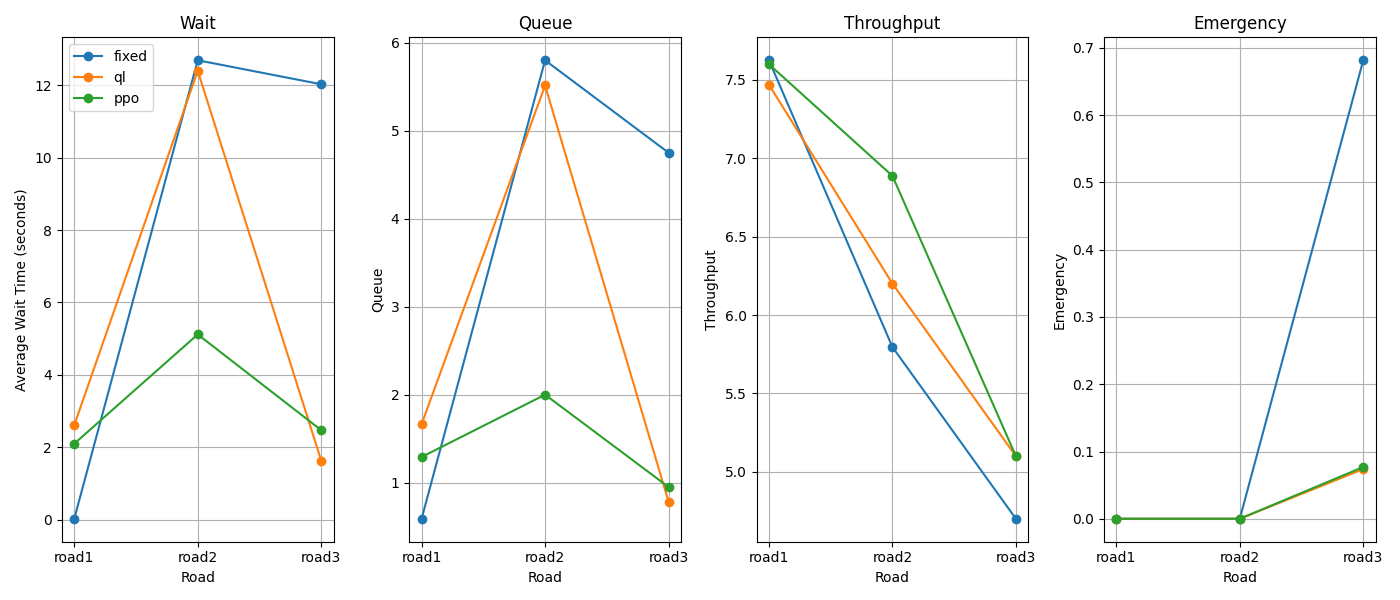
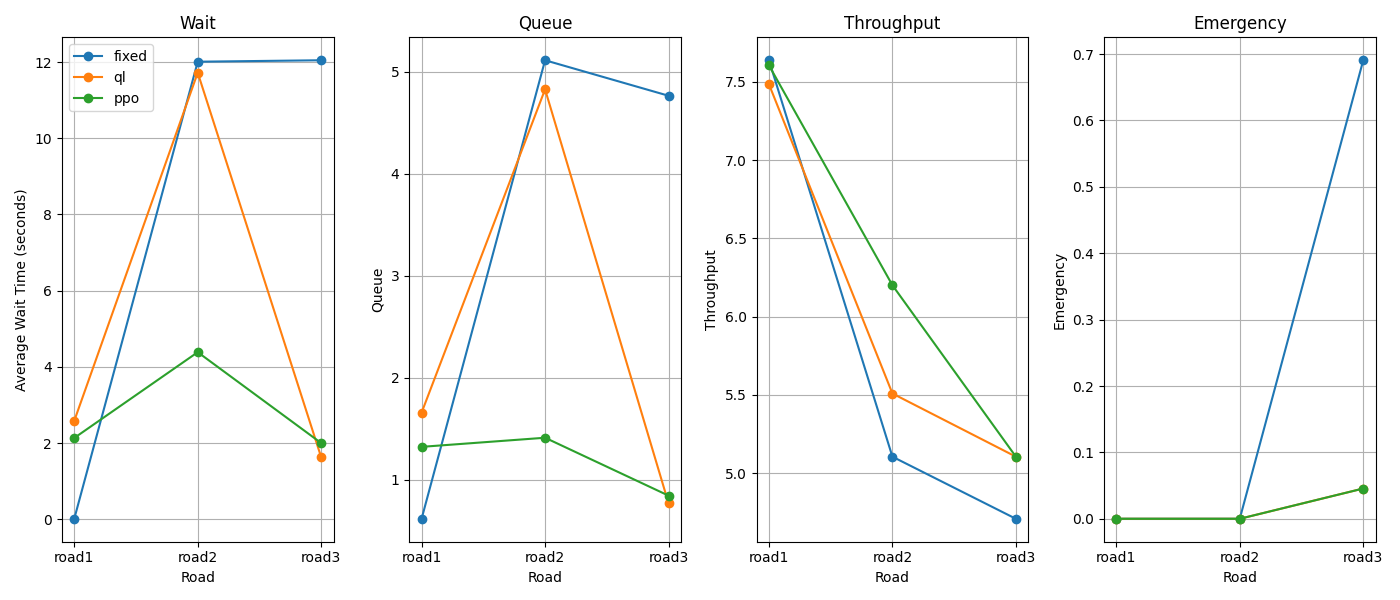
cleaned code

diff --git a/SUMO_simulation/agents/test_all_agents.py b/SUMO_simulation/agents/test_all_agents.py
@@ -9,6 +9,7 @@ import traci
 from ql_agent import QlAgent
 from train_ppo_agent import PPO, pad_state
 
+# Define networks and model paths
 NETWORKS = [
     ("../nets/road1.net.xml", "../nets/road1.rou.xml"),
     ("../nets/road2.net.xml", "../nets/road2.rou.xml"),
@@ -27,7 +28,9 @@ MAX_ACTION_DIM = 4
 RESULT_DIR = "../experiment_results/all_agents"
 os.makedirs(RESULT_DIR, exist_ok=True)
 
+
 def count_emergency_vehicles():
+    """Count emergency vehicles (e.g., container trucks) currently in simulation."""
     count = 0
     for lane in traci.lane.getIDList():
         for v in traci.lane.getLastStepVehicleIDs(lane):
@@ -35,13 +38,14 @@ def count_emergency_vehicles():
                 count += 1
     return count
 
+
 def run_agent(agent_type, road_name, net_file, route_file):
     print(f"\n🚦 Testing {agent_type.upper()} agent on {road_name}...")
 
     env = sumo_rl.SumoEnvironment(
         net_file=net_file,
         route_file=route_file,
-        use_gui=False, #TODO change to TRUE during demo
+        use_gui=True,
         num_seconds=3000,
         single_agent=False
     )
@@ -50,6 +54,7 @@ def run_agent(agent_type, road_name, net_file, route_file):
     done = {"__all__": False}
     traffic_signals = list(env.traffic_signals.keys())
 
+    # Load agent depending on type
     if agent_type == "ppo":
         agent = PPO(state_dim=MAX_STATE_DIM, max_action_dim=MAX_ACTION_DIM,
                     hidden_size=64, lr=3e-4, gamma=0.99, clip_ratio=0.2, K_epoch=10)
@@ -59,6 +64,10 @@ def run_agent(agent_type, road_name, net_file, route_file):
         agent = QlAgent(input_shape=MAX_Q_STATE_DIM)
         agent.model.load_state_dict(torch.load(MODEL_PATHS["ql"]))
         agent.model.eval()
+    elif agent_type == "fixed":
+        agent = None  # 🚦 No agent needed
+    else:
+        raise ValueError(f"Unknown agent type: {agent_type}")
 
     step = 0
     total_wait_time = 0
@@ -87,12 +96,15 @@ def run_agent(agent_type, road_name, net_file, route_file):
                     masked_pred[phase] = pred[phase]
 
                 action = torch.argmax(masked_pred).item()
+            elif agent_type == "fixed":
+                action = None  # 🚦 Let default fixed signals work
             else:
                 action = None
 
             if action is not None:
                 actions[ts] = action
 
+        # Step the environment
         obs, rewards, done, _ = env.step(actions if actions else {})
 
         if traci.isLoaded():
@@ -113,9 +125,11 @@ def run_agent(agent_type, road_name, net_file, route_file):
     throughput = len(passed_vehicles)
     avg_emergency = np.mean(emergency_counts)
 
-    print(f"   ➤ Avg Wait Time: {avg_wait:.2f} s | Queue: {avg_queue:.2f} | Throughput: {throughput} | Emergencies/Step: {avg_emergency:.2f}")
+    print(f"   ➤ Avg Wait Time: {avg_wait:.2f} s | Queue: {avg_queue:.2f} | Throughput: {throughput} | Emergencies"
+          f"/Step: {avg_emergency:.2f}")
 
     return avg_wait, avg_queue, throughput, avg_emergency
+
 
 def test_all():
     summary_rows = []
@@ -142,16 +156,17 @@ def test_all():
     labels = [os.path.basename(net_file).replace(".net.xml", "") for net_file, _ in NETWORKS]
     x = np.arange(len(labels))
 
-    # Apply log scaling to prevent small values from becoming 0
+    # Apply log scaling
     for metric in ["wait", "queue", "throughput", "emergency"]:
         for agent in agents:
-            metrics[agent][metric] = np.log1p(np.array(metrics[agent][metric]))  # log scaling (log(x+1))
+            metrics[agent][metric] = np.log1p(np.array(metrics[agent][metric]))
 
+    # Plot results
     plt.figure(figsize=(14, 6))
     for i, metric in enumerate(["wait", "queue", "throughput", "emergency"]):
         plt.subplot(1, 4, i + 1)
         for agent in agents:
-            plt.plot(x, metrics[agent][metric], marker='o', label=agent)  # Line plot with markers
+            plt.plot(x, metrics[agent][metric], marker='o', label=agent)
         plt.xticks(x, labels)
         plt.title(metric.capitalize())
         plt.xlabel("Road")
@@ -162,10 +177,12 @@ def test_all():
     plt.tight_layout()
     plt.savefig(os.path.join(RESULT_DIR, "all_agents_comparison_log.png"))
 
+    # Save summary CSV
     summary_df = pd.DataFrame(summary_rows)
     summary_csv_path = os.path.join(RESULT_DIR, "summary_results.csv")
     summary_df.to_csv(summary_csv_path, index=False)
     print("\n📄 Summary CSV saved to", summary_csv_path)
+
 
 if __name__ == "__main__":
     test_all()

diff --git a/SUMO_simulation/agents/train_ppo_agent.py b/SUMO_simulation/agents/train_ppo_agent.py
@@ -8,6 +8,7 @@ import os
 import numpy as np
 import matplotlib.pyplot as plt
 
+
 class ActorCritic(nn.Module):
     def __init__(self, state_dim, max_action_dim, hidden_size):
         super(ActorCritic, self).__init__()
@@ -24,6 +25,7 @@ class ActorCritic(nn.Module):
 
     def forward(self, x):
         return self.actor(x), self.critic(x)
+
 
 class PPO:
     def __init__(self, state_dim, max_action_dim, hidden_size, lr, gamma, clip_ratio, K_epoch):
@@ -73,12 +75,17 @@ class PPO:
             loss.backward()
             self.optimizer.step()
 
+
 def pad_state(state, max_state_dim):
     padded_state = np.zeros(max_state_dim, dtype=np.float32)
     padded_state[:len(state)] = state
     return padded_state
 
-def train(roads=["road1", "road2", "road3"], hidden_size=64, lr=3e-4, gamma=0.99, clip_ratio=0.2, K_epoch=10, max_steps=100, max_episodes=100):
+
+def train(roads=None, hidden_size=64, lr=3e-4, gamma=0.99, clip_ratio=0.2, K_epoch=10,
+          max_steps=100, max_episodes=100):
+    if roads is None:
+        roads = ["road1", "road2", "road3"]
     max_state_dim = 0
     max_action_dim = 0
 
@@ -115,7 +122,6 @@ def train(roads=["road1", "road2", "road3"], hidden_size=64, lr=3e-4, gamma=0.99
 
         for episode in range(max_episodes):
             state = pad_state(env.reset()[0], max_state_dim)
-            done = False
             total_reward = 0
 
             states, actions, old_probs, rewards = [], [], [], []
@@ -169,6 +175,7 @@ def train(roads=["road1", "road2", "road3"], hidden_size=64, lr=3e-4, gamma=0.99
     os.makedirs(os.path.dirname(save_path), exist_ok=True)
     torch.save(agent.actor_critic.state_dict(), save_path)
     print(f"Model saved at {save_path}.")
+
 
 if __name__ == "__main__":
     train()

diff --git a/SUMO_simulation/agents/train_ql.py b/SUMO_simulation/agents/train_ql.py
@@ -1,7 +1,6 @@
 import numpy as np
 import torch
 import matplotlib.pyplot as plt
-import matplotlib.cm as cm
 import random
 import sumo_rl
 import traci
@@ -17,18 +16,20 @@ epochs = 10
 epsilon = 1
 gamma = 0.9
 
-def check_emergency_vehicle(ts_id):
-    emergency_count = 0
+
+def check_emergency_vehicle(traffic_id):
+    count_emergency = 0
     try:
-        lanes = traci.trafficlight.getControlledLanes(ts_id)
+        lanes = traci.trafficlight.getControlledLanes(traffic_id)
         for lane in lanes:
             vehicles = traci.lane.getLastStepVehicleIDs(lane)
             for veh in vehicles:
                 if traci.vehicle.getTypeID(veh) == "DEFAULT_CONTAINERTYPE":
-                    emergency_count += 1
-    except Exception as e:
-        print(f"Error checking emergency vehicle at {ts_id}: {e}")
-    return emergency_count
+                    count_emergency += 1
+    except Exception as exception:
+        print(f"Error checking emergency vehicle at {traffic_id}: {exception}")
+    return count_emergency
+
 
 ql_agent = QlAgent(input_shape=max_input_shape)
 avg_rewards = []
@@ -79,7 +80,8 @@ for epoch in range(epochs):
                     continue
 
                 current_phase = env.traffic_signals[ts_id].green_phase
-                valid_transitions = [key for key in env.traffic_signals[ts_id].yellow_dict.keys() if key[0] == current_phase]
+                valid_transitions = [key for key in env.traffic_signals[ts_id].yellow_dict.keys() if
+                                     key[0] == current_phase]
                 next_phase = random.choice(valid_transitions)[1] if valid_transitions else current_phase
 
                 if emergency_count > 0 and next_phase != current_phase:

diff --git a/SUMO_simulation/agents/test_fixed.py b/SUMO_simulation/agents/test_fixed.py
@@ -1,13 +1,12 @@
 import os
-
-# ✅ Set this BEFORE importing sumo_rl to inject additional files
-os.environ["SUMO_ADDITIONAL_FILES"] = "../nets/fixed_tls.add.xml"
-
 import numpy as np
 import pandas as pd
 import matplotlib.pyplot as plt
 import traci
 from sumo_rl import SumoEnvironment
+
+# ✅ Set this BEFORE importing sumo_rl to inject additional files
+os.environ["SUMO_ADDITIONAL_FILES"] = "../nets/fixed_tls.add.xml"
 
 networks = [
     ("../nets/road1.net.xml", "../nets/road1.rou.xml", "road1"),
@@ -18,6 +17,7 @@ networks = [
 result_dir = "../experiment_results/fixed_agent"
 os.makedirs(result_dir, exist_ok=True)
 
+
 def count_emergency_vehicles():
     count = 0
     for lane in traci.lane.getIDList():
@@ -25,6 +25,7 @@ def count_emergency_vehicles():
             if traci.vehicle.getTypeID(v) == "DEFAULT_CONTAINERTYPE":
                 count += 1
     return count
+
 
 def log_emergency_wait():
     logs = []
@@ -34,6 +35,7 @@ def log_emergency_wait():
                 wait = traci.vehicle.getWaitingTime(veh_id)
                 logs.append((veh_id, wait))
     return logs
+
 
 for net_file, route_file, road_id in networks:
     print(f"\n🚦 Evaluating Fixed-Time Agent on {road_id}")

diff --git a/SUMO_simulation/agents/test_ppo.py b/SUMO_simulation/agents/test_ppo.py
@@ -23,6 +23,7 @@ RESULT_DIR = "../experiment_results/ppo_agent"
 
 os.makedirs(RESULT_DIR, exist_ok=True)
 
+
 def count_emergency_vehicles():
     count = 0
     for lane in traci.lane.getIDList():
@@ -30,6 +31,7 @@ def count_emergency_vehicles():
             if traci.vehicle.getTypeID(v) == "DEFAULT_CONTAINERTYPE":
                 count += 1
     return count
+
 
 def log_emergency_wait():
     logs = []
@@ -39,6 +41,7 @@ def log_emergency_wait():
                 wait = traci.vehicle.getWaitingTime(veh_id)
                 logs.append((veh_id, wait))
     return logs
+
 
 def test_ppo():
     print("📦 Loading PPO model...")
@@ -127,6 +130,7 @@ def test_ppo():
             f.write(f"Average Emergency Vehicles per Step: {np.mean(emergency_counts):.2f}\n")
 
         env.close()
+
 
 if __name__ == "__main__":
     test_ppo()

diff --git a/SUMO_simulation/agents/test_ql.py b/SUMO_simulation/agents/test_ql.py
@@ -35,13 +35,15 @@ agent = QlAgent(input_shape=max_input_shape)
 agent.model.load_state_dict(torch.load(model_path))
 agent.model.eval()
 
+
 def check_emergency(ts):
     count = 0
-    for lane in traci.trafficlight.getControlledLanes(ts):
-        for v in traci.lane.getLastStepVehicleIDs(lane):
+    for carlane in traci.trafficlight.getControlledLanes(ts):
+        for v in traci.lane.getLastStepVehicleIDs(carlane):
             if traci.vehicle.getTypeID(v) == "DEFAULT_CONTAINERTYPE":
                 count += 1
     return count
+
 
 # === Tracking Metrics ===
 rewards_per_step = []
